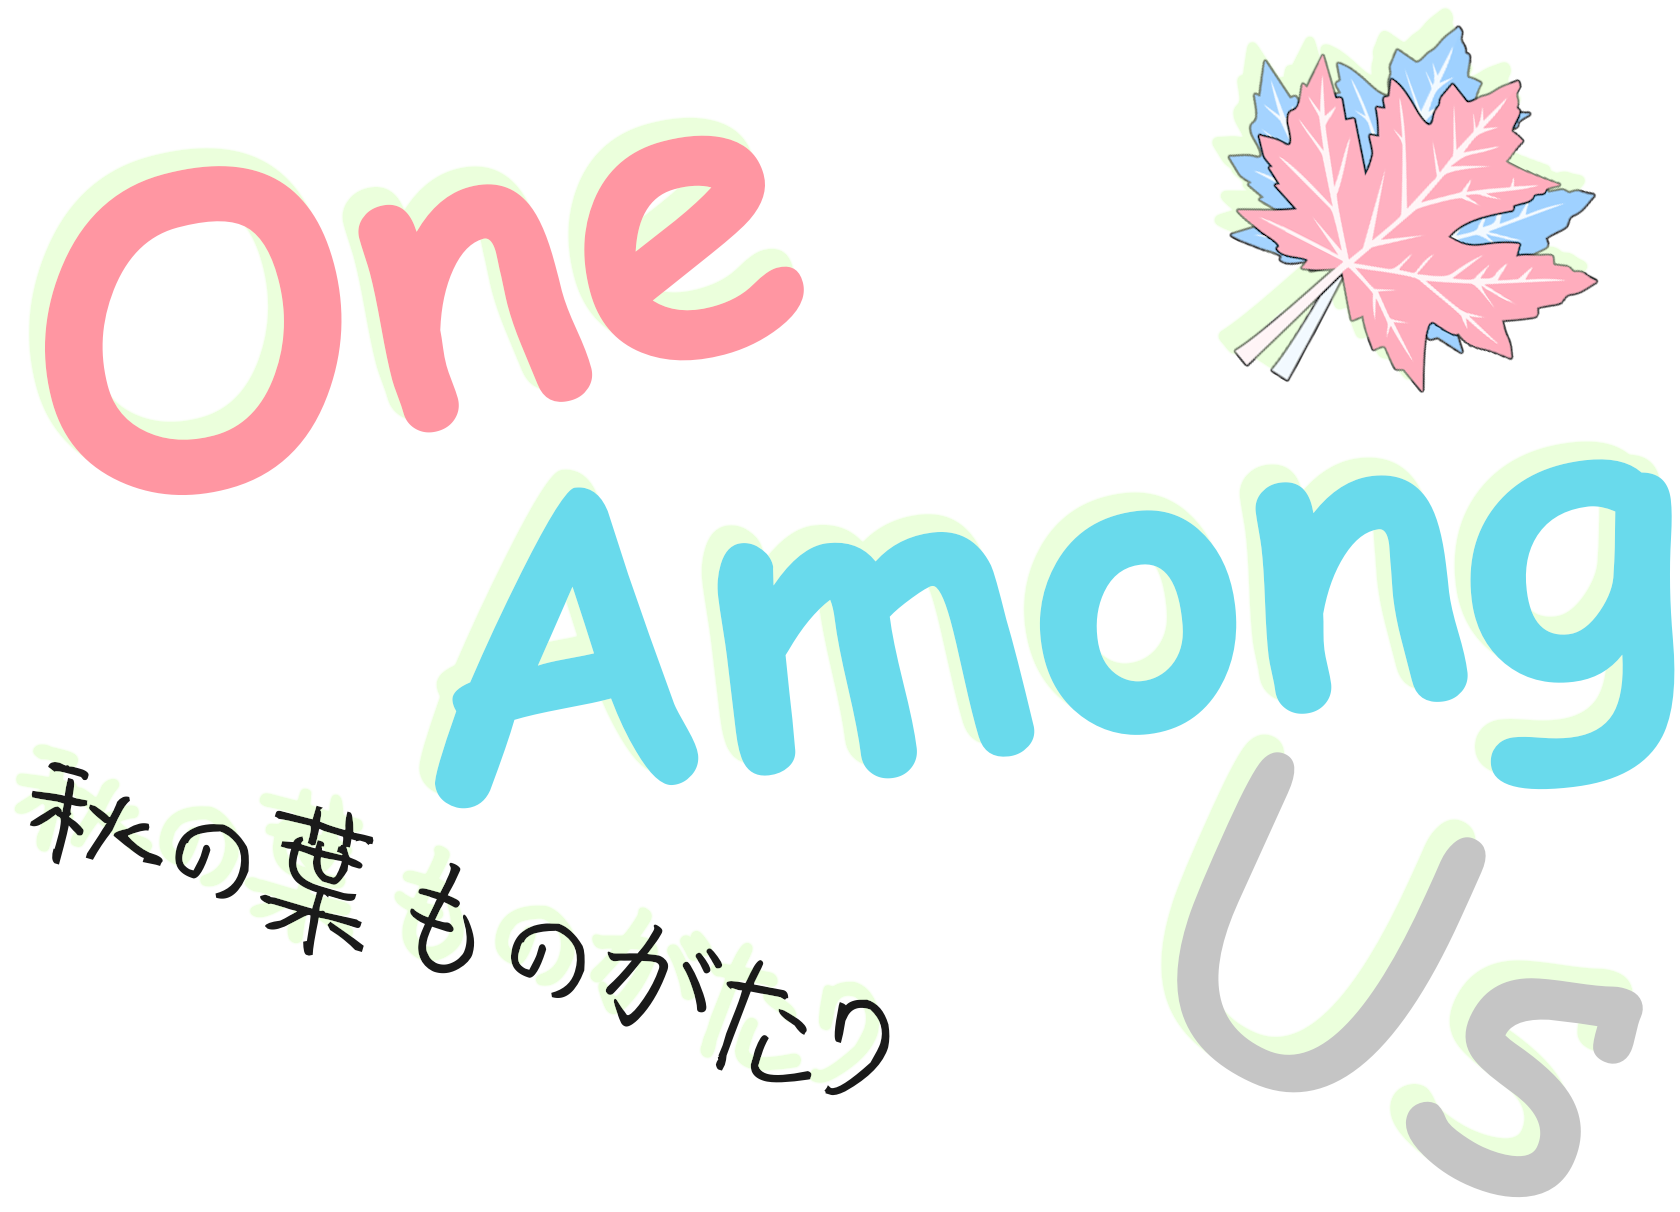
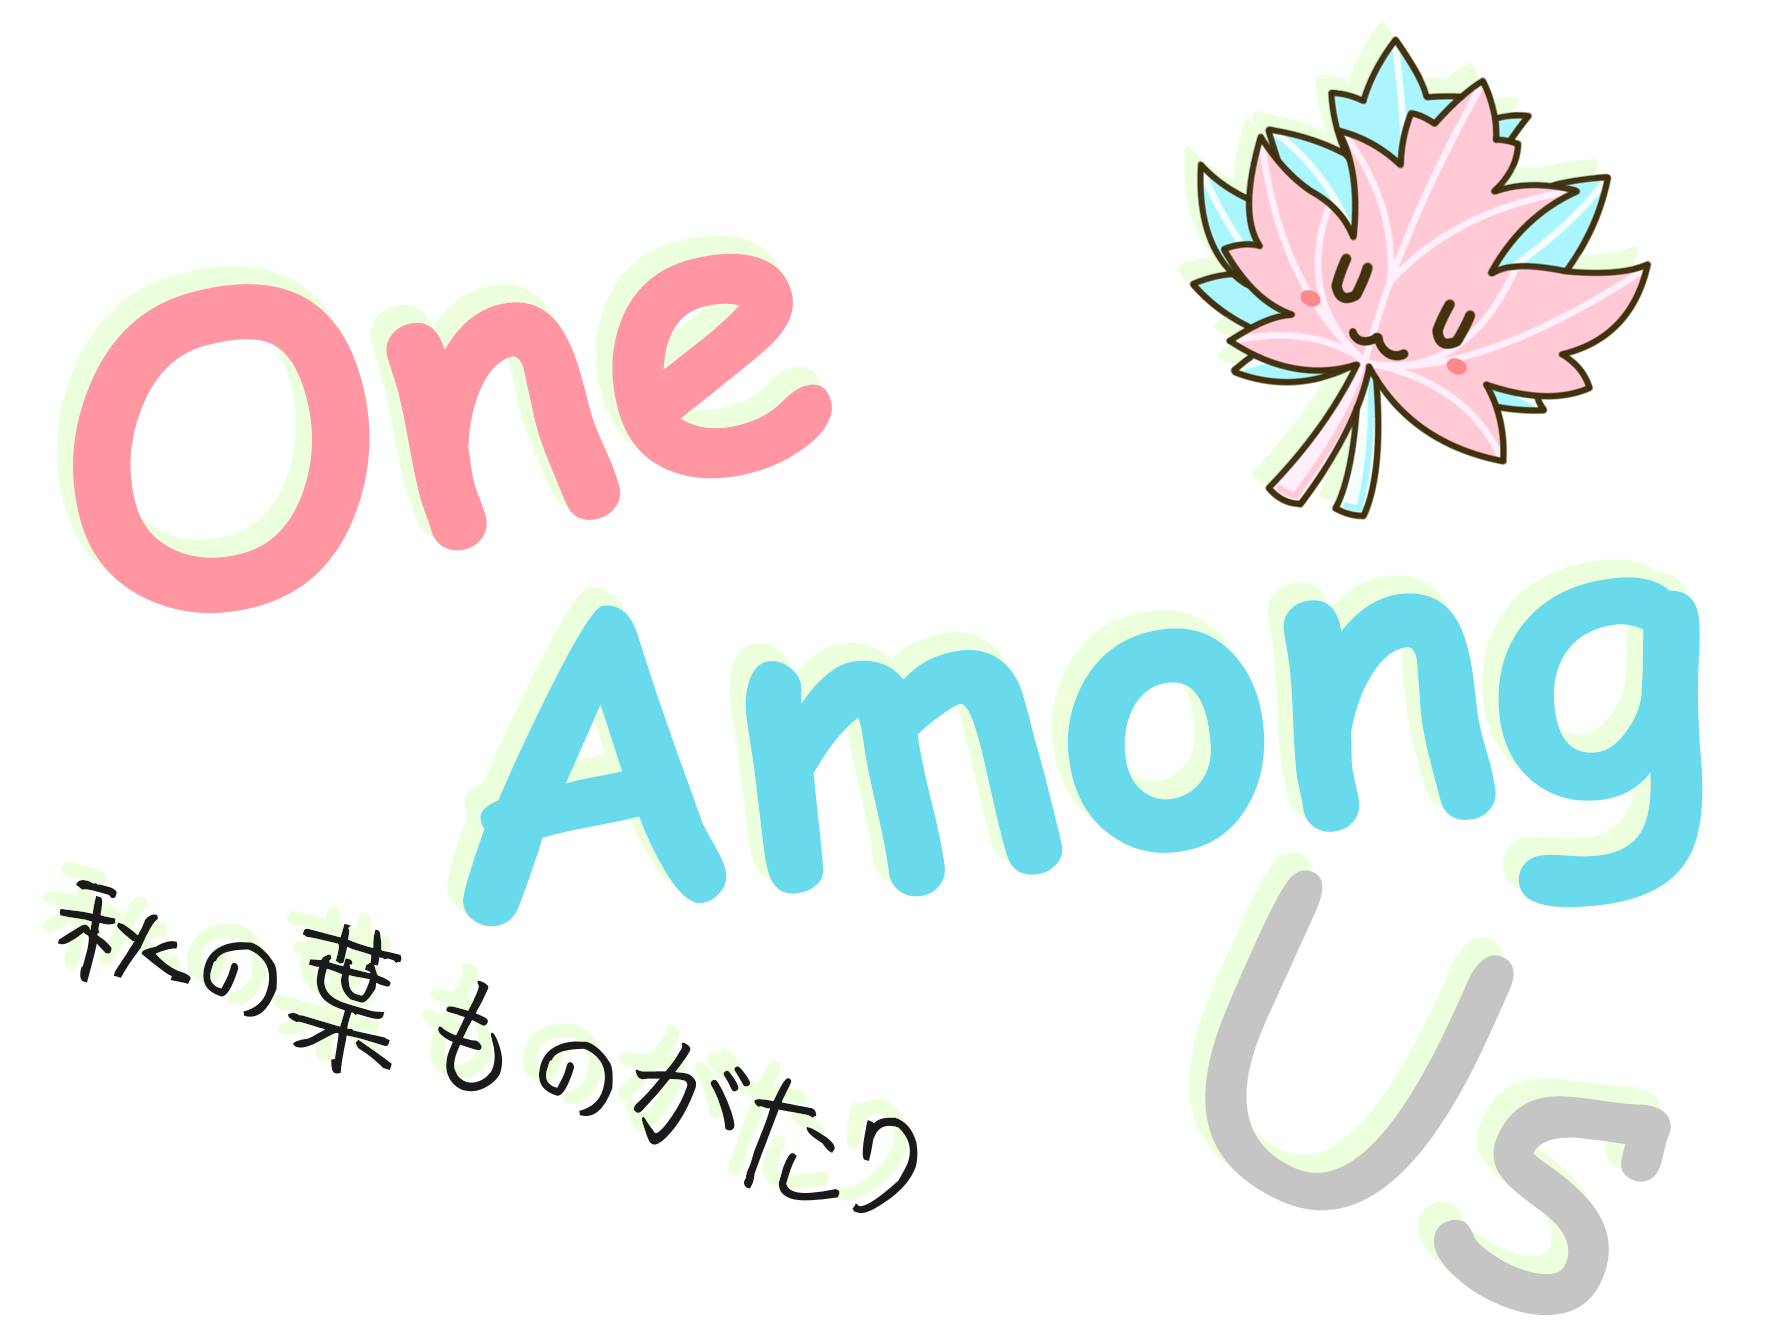
[O] Put into title

diff --git a/src/App.vue b/src/App.vue
@@ -1,8 +1,9 @@
 <template>
     <Divider height="5px"/>
     <div id="title" class="fbox-vcenter unselectable" v-if="['Home', 'About'].includes(String($route.name))">
-        <div id="title-txt">那些秋叶</div>
-        <div id="title-sub">One Among Us</div>
+        <div id="title-txt" v-if="!uwu">那些秋叶</div>
+        <div id="title-sub" v-if="!uwu">One Among Us</div>
+        <img src="/kawaii.oau.png" class="kawaii" v-show="uwu"/>
     </div>
 
     <div id="nav" class="fbox-vcenter unselectable">
@@ -27,11 +28,14 @@ import {applyTheme} from "@/logic/theme";
 import {info, logPrefixCss} from "@/logic/utils";
 import {Component, Vue} from 'vue-facing-decorator';
 import {getLang, t} from './logic/config';
+import {isUwU} from "@/logic/uwu";
 
 @Component({ components: { GlobalButton, Divider } })
 export default class App extends Vue {
     $route: any
     t = t
+
+    uwu = isUwU() && getLang() === 'en'
 
     created(): void {
         if (!localStorage.getItem('showBtn'))
@@ -122,6 +126,12 @@ export default class App extends Vue {
 
         &.router-link-exact-active
             color: $color-text-special
+
+.kawaii
+    width: 100%
+    height: 100%
+    margin: auto
+    object-fit: contain
 
 // Content
 #router

diff --git a/src/views/Home.vue b/src/views/Home.vue
@@ -10,8 +10,6 @@
 
             <TdorComments v-if="!isDeadlinePassed()"/>
 
-            <img src="/kawaii.oau.png" class="kawaii" v-show="uwu"/>
-
             <div class="introduction markdown-content" v-html="htmlTop"/>
 
             <div class=randomButtons>
@@ -99,8 +97,6 @@ export default class Home extends Vue {
     @Ref() bookmarkTexts: HTMLDivElement[]
     @Ref() bookmark: HTMLDivElement[]
 
-    uwu = isUwU() && getLang() === 'en'
-
     isDeadlinePassed(): boolean {
         // const deadlineDate = new Date(2024, 2, 27, 16, 0); // March 27, 2024, 16:00 (UTC); Wrong! not UTC!
         // const now = new Date();
@@ -177,11 +173,6 @@ export default class Home extends Vue {
     text-align: justify
     text-justify: inter-word
     margin: 10px min(5vw, 40px)
-
-.kawaii
-    width: 50%
-    height: fit-content
-    margin: 30px auto
 
 .bottom
     padding-bottom: 250px
